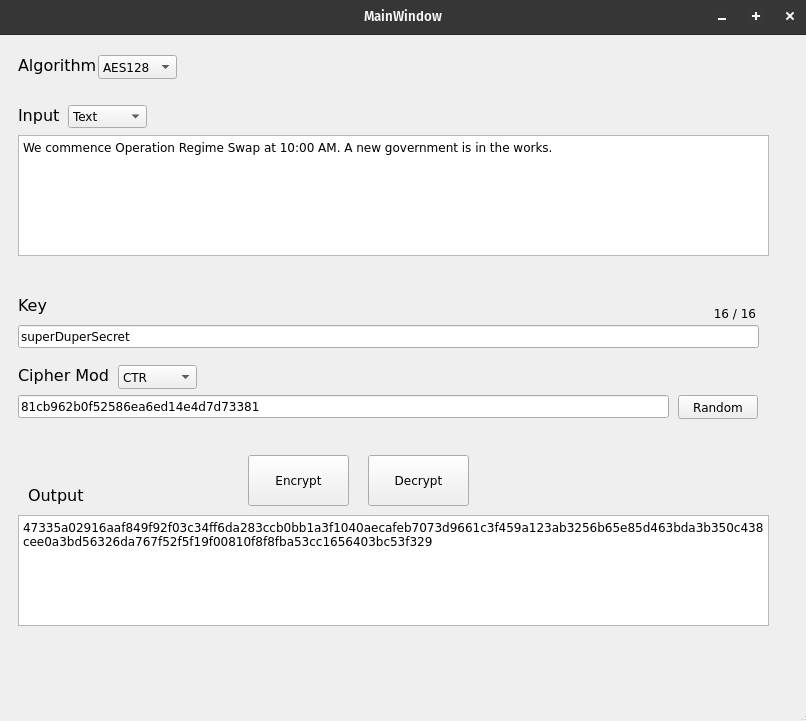
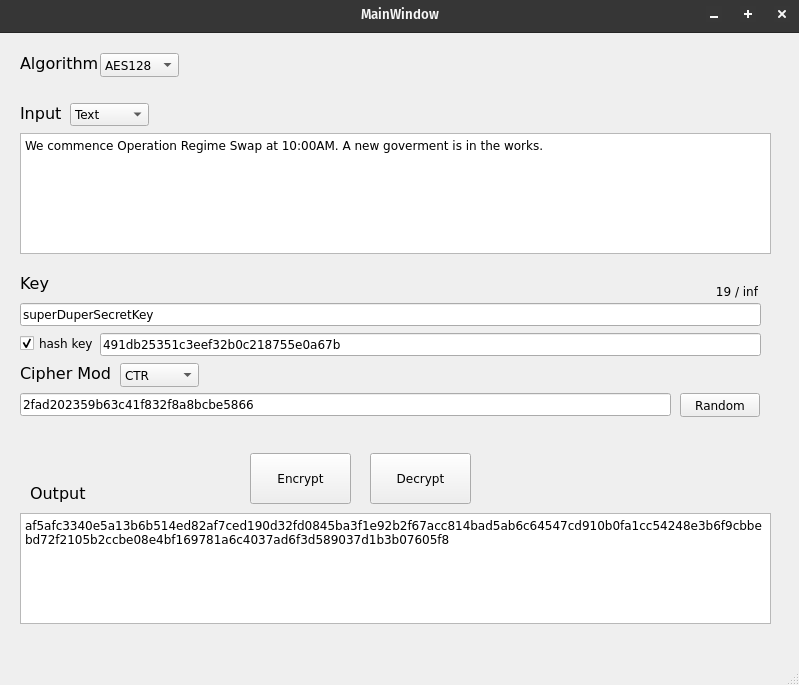
updated readme

diff --git a/README.md b/README.md
@@ -31,13 +31,17 @@ Currenlty Spymaster has implimented:
 - DES
 - CAESER
 - PLAYFAIR
+- SHA256
 
 And supports cipher modes such as EBC, CBC and CTR.
 
-More cipher algorithms and modes coming soon!
+More cryptographic algorithms and cipher modes coming soon!
 
 > [!NOTE]
-> All appropriate algorithms are implimented in acordance to FIP specifications!
+> All appropriate cryptographic algorithms are implimented in acordance to FIPS specifications!
+
+> [!CAUTION]
+> This project is designed solely for educational and learning purposes. It is not intended for real-world cryptographic applications or securing sensitive data, for that use reliable libraries such as [OpenSSL](https://www.openssl.org/) instead!
 
 # ⚒ How to build?
 
@@ -58,7 +62,7 @@ The only dependecy is QT for the graphical interface, make sure it's linked prop
 
 ## 🎯 TODO
 
-- Key Hashing via SHA
+- ~~Key Hashing via SHA~~
 - File I/O
 - Visual overhall
 - Encryption breaking
